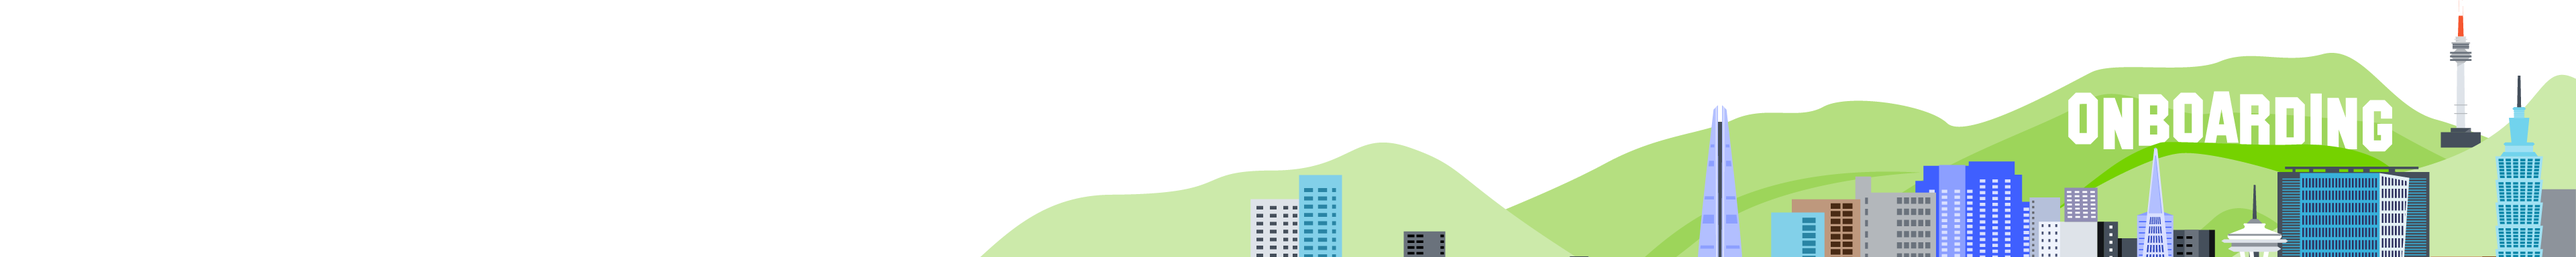
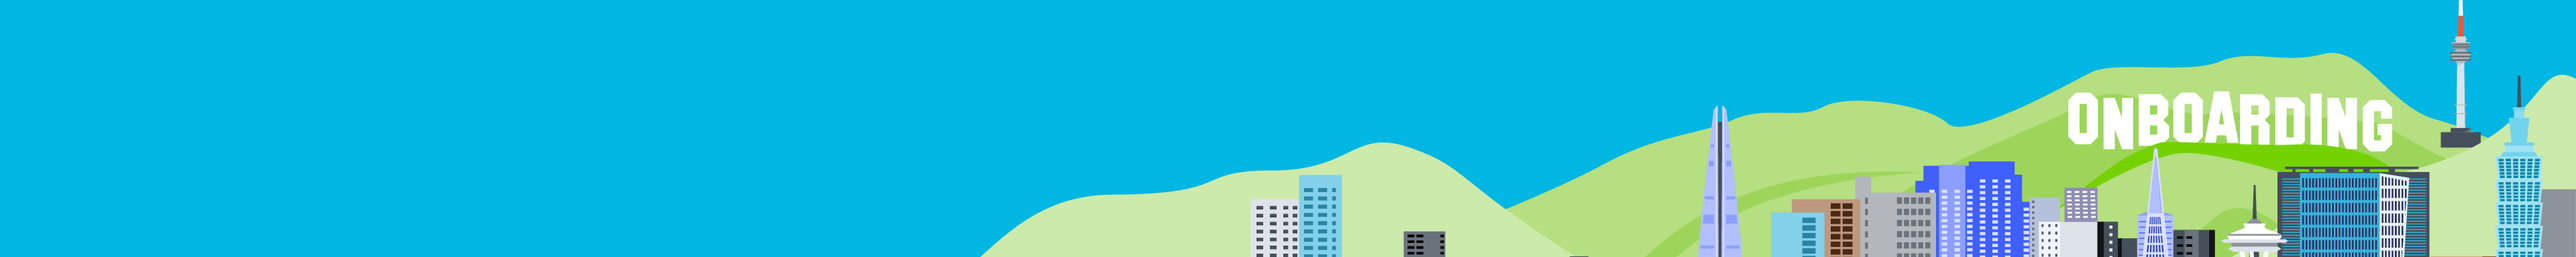
Changed header image and text colour

diff --git a/template.html b/template.html
@@ -6,7 +6,7 @@
     <title>Template</title>
   </head>
   <body style="font-family: CP Sans Text, Arial, Helvetica, sans-serif">
-    <table style="background-image: url(https://iwross.github.io/CoupangEmail/header.png); background-size: cover; background-position: right center; background-repeat: no-repeat; background-color: white; color: #404040; width: 100%">
+    <table style="background-image: url(https://iwross.github.io/CoupangEmail/header.png); background-size: cover; background-position: right center; background-repeat: no-repeat; background-color: #00B6E2; color: white; width: 100%">
       <tr>
         <td width="100" style="padding: 16px">
           <img
